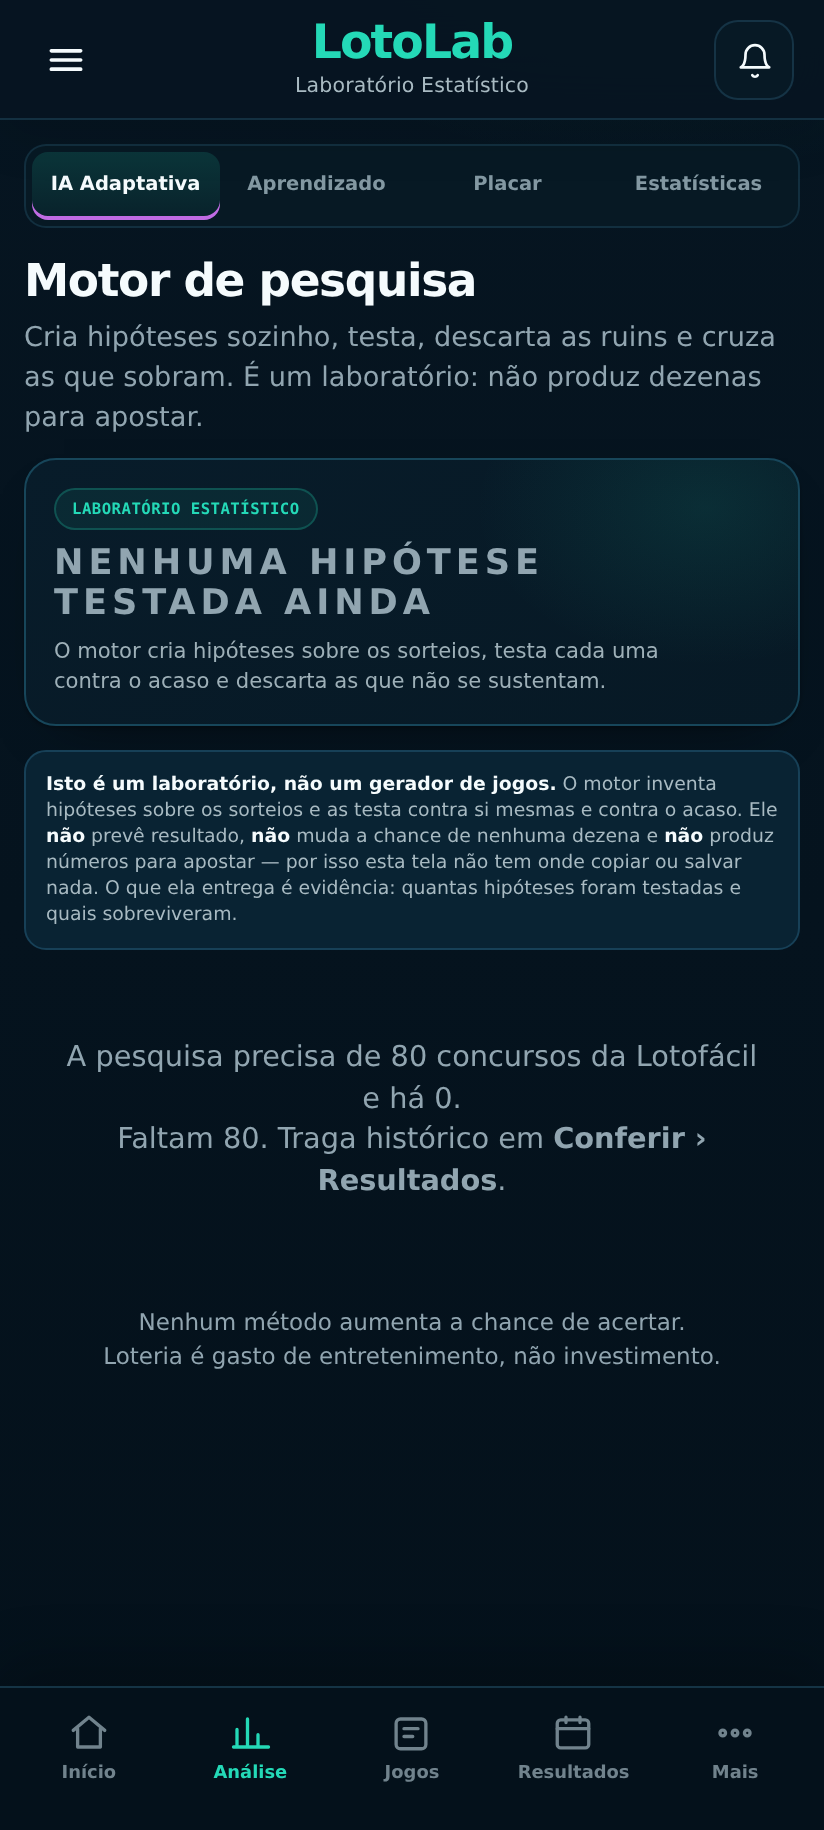
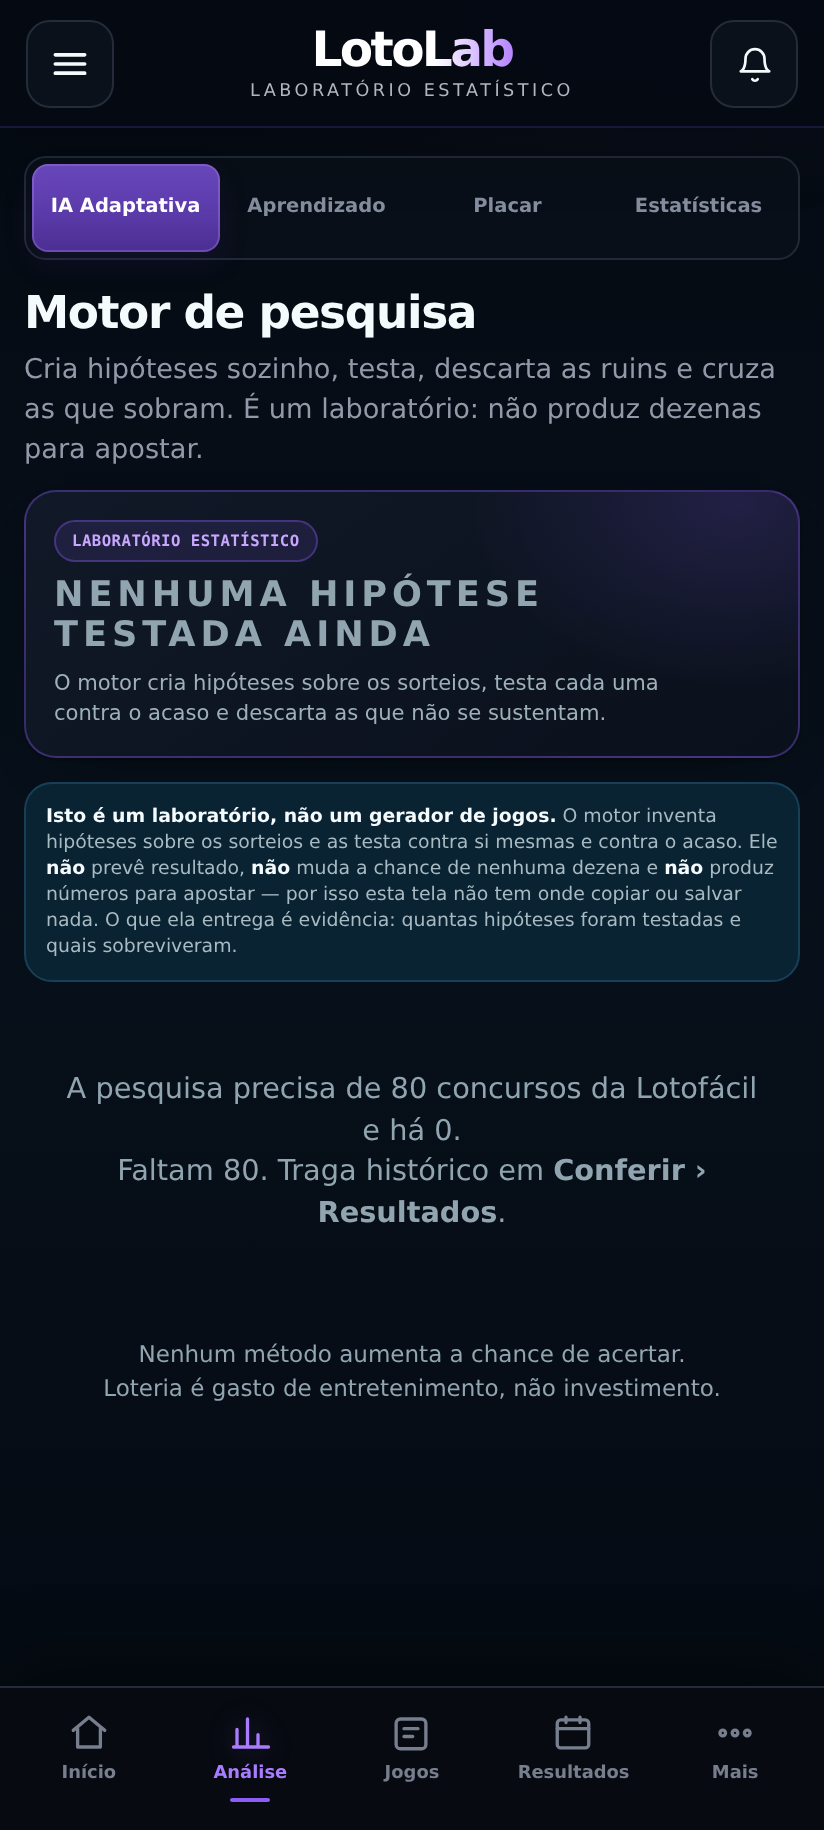
refino(v4.3): roxo global, foco visível, alvo de 44px e uma escala de raio
Quatro defeitos medidos na interface real, aos 360, 390 e 430px. Só folha de
estilo: nenhum arquivo de motor, dado ou fluxo foi tocado, e a referência
dourada de caracteristicas() continua idêntica.

1. O ROXO NÃO ERA A IDENTIDADE GLOBAL. `--ll-mod`, que pinta acentos por toda
   a interface, nascia teal (#24D9B7) e passava a valer a cor da modalidade
   escolhida — verde inteiro na Mega-Sena, lilás inteiro na Lotofácil. Era a
   regra da V4.2, quando a modalidade ERA a identidade. Agora o acento global é
   roxo em qualquer modalidade, e a cor da modalidade segue viva onde informa:
   indicador, dezenas dos resultados e estado selecionado. `--ll-chip` não foi
   tocado de propósito.

2. O FOCO DE TECLADO ERA INVISÍVEL. Botão focado devolvia `outline: none` e
   `box-shadow: none`. A bateria cobrava que o foco ALCANÇA os controles; não
   cobrava que ele APARECE. Anel roxo de 2px em :focus-visible — não :focus,
   para não piscar a cada toque no celular.

3. ALVO DE TOQUE ABAIXO DO DEDO. Entre 33 e 39px em abas de segmento, chips,
   ".acao mini" e ".acao-tela"; 40px nos ícones do cabeçalho. Todos em 44px
   agora. A coluna da grade do cabeçalho subiu junto, senão o botão
   transbordaria.

4. QUATRO RAIOS DE BORDA convivendo (11, 12, 15 e 17px) em elementos do mesmo
   peso. Agora uma escala: 14px para superfície, 10px para controle.

Duas correções precisaram de classe repetida: `.hero-card .primary-btn` e
[…]

diff --git a/ui/lotolab-ui-v4-3.css b/ui/lotolab-ui-v4-3.css
@@ -160,3 +160,109 @@ select:focus,input:focus{border-color:rgba(139,92,246,.72)!important;box-shadow:
   .bola,.ball{width:31px!important;height:31px!important}
 }
 @media(prefers-reduced-motion:reduce){*{scroll-behavior:auto!important}}
+
+/* ====================================================================
+   V4.3 — refino
+   Quatro defeitos medidos na interface real, aos 360, 390 e 430px.
+   Nada aqui toca motor, dados ou fluxo: é folha de estilo.
+   ==================================================================== */
+
+/* 1. O ROXO VOLTA A SER A IDENTIDADE GLOBAL.
+
+   Medido: `--ll-mod`, que pinta acentos por toda a interface, nascia teal
+   (#24D9B7) e passava a valer a cor da modalidade escolhida — verde inteiro na
+   Mega-Sena, lilás inteiro na Lotofácil. Era a regra da V4.2, quando a cor da
+   modalidade era a identidade.
+
+   Na V4.3 a identidade é o roxo, e a cor da modalidade é contexto. Então o
+   acento global passa a ser roxo em qualquer modalidade, e a cor da modalidade
+   segue viva onde ela informa: no indicador, nas dezenas dos resultados e no
+   estado selecionado. É por isso que `--ll-chip` NÃO é tocado aqui. */
+:root,
+body:has([data-mod][aria-pressed="true"]){
+  --ll-mod:var(--ll43-purple)!important;
+  --ll-mod-soft:var(--ll43-purple-soft)!important;
+  --ll-mod-border:rgba(139,92,246,.46)!important;
+  --ll-mod-text:#CDB4FF!important;
+}
+
+/* 2. FOCO DE TECLADO VISÍVEL.
+
+   Medido: botão com foco devolvia `outline: none 0px` e `box-shadow: none` —
+   quem navega por teclado não tinha como saber onde estava. A bateria já
+   cobrava que o foco ALCANÇA os controles; não cobrava que ele APARECE.
+
+   :focus-visible, e não :focus, para o anel não piscar a cada toque no celular. */
+:where(button,a[href],input,select,textarea,[tabindex]):focus-visible{
+  outline:2px solid var(--ll43-purple)!important;
+  outline-offset:2px!important;
+  border-radius:10px;
+}
+
+/* 3. ALVO DE TOQUE DE 44px.
+
+   Medido nas três larguras: abas de segmento 34px, chips 33px, ".acao mini"
+   37px, ".acao-tela" 38px. Todos abaixo do mínimo confortável para o dedo.
+
+   min-height em vez de height: o conteúdo manda quando for maior, e nada
+   encolhe. Onde o elemento é pequeno por desenho — o ícone do cabeçalho —, o
+   alvo cresce sem o desenho crescer. */
+/* Classe repetida de propósito. A camada anterior fixa
+   `.primary-btn,.hero-card .primary-btn{min-height:37px!important}`, e o botão
+   da tela inicial FICA dentro de .hero-card — ou seja, o seletor que vale ali
+   tem especificidade (0,2,0) e ganha do meu (0,1,0), mesmo eu vindo depois e
+   também com !important. Repetir a classe empata a especificidade e a ordem
+   decide, que é o comportamento que eu esperava desde o começo.
+
+   Medido antes de escrever: o computado continuava 37px com a regra simples. */
+.acao.acao,.chip.chip,.primary-btn.primary-btn,
+.segmento button,.abas-seg button,.filtros button{
+  min-height:44px!important;
+}
+.acao-tela.acao-tela{min-width:44px!important;min-height:44px!important}
+
+/* Os dois ícones do cabeçalho ficavam em 40px porque a coluna da grade tem
+   42px. Subir só o botão o faria transbordar a coluna, então sobem juntos.
+   A 360px isto deixa 272px para o título, que continua sobrando. */
+.cabeca{grid-template-columns:44px 1fr 44px!important}
+.menu.menu,.sino.sino{width:44px!important;height:44px!important}
+.chip{padding-top:0!important;padding-bottom:0!important;display:inline-flex!important;
+  align-items:center!important}
+
+/* 4. RAIO DE BORDA COM ESCALA ÚNICA.
+
+   Medido: 11, 12, 15 e 17px convivendo em elementos do mesmo peso visual.
+   Quatro valores para a mesma família é ruído que se vê sem saber nomear.
+
+   Duas medidas, e só: 14px para superfície (cartão, painel, nota, ficha) e
+   10px para controle (campo, chip, botão pequeno). */
+:root{--ll43-r-superficie:14px;--ll43-r-controle:10px}
+.carta,.panel,.painel,.nota,.ficha,.kpi,.card,.activity-item,.item,
+.draw-card,.concurso,
+/* .hero-card vinha com 17px e .mini-card com 12px — os dois últimos fora da
+   escala, medidos na tela inicial. São superfície como as outras. */
+.hero-card.hero-card,.mini-card.mini-card,
+/* `.resumo .kpi` (0,2,0) fixa 12px e ganharia de um `.kpi` solto. Só aparece
+   no Placar quando há jogo salvo — a varredura da tela vazia não o via, e foi
+   o teste novo, rodando depois das seções que criam dados, que o pegou. */
+.resumo .kpi{border-radius:var(--ll43-r-superficie)!important}
+select,input[type=number],input[type=text],input[type=date],.search,
+.acao.mini,.chip{border-radius:var(--ll43-r-controle)!important}
+
+/* 5. O ESTADO DO RESULTADO NÃO DEPENDE DE COR.
+
+   O selo já traz o texto ("com ganhador" / "sem ganhador — acumulou"), e é
+   isso que sustenta a leitura de quem não distingue verde de amarelo. Aqui a
+   cor só reforça, com os tons da V4.3, e o peso extra separa os dois estados
+   também pela forma. */
+.selo-ganho.ganhou{
+  color:var(--ll43-winner)!important;
+  border-color:color-mix(in srgb,var(--ll43-winner) 46%,transparent)!important;
+  background:color-mix(in srgb,var(--ll43-winner) 13%,transparent)!important;
+}
+.selo-ganho.acumulou{
+  color:var(--ll43-rollover)!important;
+  border-color:color-mix(in srgb,var(--ll43-rollover) 48%,transparent)!important;
+  background:color-mix(in srgb,var(--ll43-rollover) 14%,transparent)!important;
+}
+.selo-ganho.desconhecido{font-style:italic!important}

diff --git a/www/ui/lotolab-ui-v4-3.css b/www/ui/lotolab-ui-v4-3.css
@@ -160,3 +160,109 @@ select:focus,input:focus{border-color:rgba(139,92,246,.72)!important;box-shadow:
   .bola,.ball{width:31px!important;height:31px!important}
 }
 @media(prefers-reduced-motion:reduce){*{scroll-behavior:auto!important}}
+
+/* ====================================================================
+   V4.3 — refino
+   Quatro defeitos medidos na interface real, aos 360, 390 e 430px.
+   Nada aqui toca motor, dados ou fluxo: é folha de estilo.
+   ==================================================================== */
+
+/* 1. O ROXO VOLTA A SER A IDENTIDADE GLOBAL.
+
+   Medido: `--ll-mod`, que pinta acentos por toda a interface, nascia teal
+   (#24D9B7) e passava a valer a cor da modalidade escolhida — verde inteiro na
+   Mega-Sena, lilás inteiro na Lotofácil. Era a regra da V4.2, quando a cor da
+   modalidade era a identidade.
+
+   Na V4.3 a identidade é o roxo, e a cor da modalidade é contexto. Então o
+   acento global passa a ser roxo em qualquer modalidade, e a cor da modalidade
+   segue viva onde ela informa: no indicador, nas dezenas dos resultados e no
+   estado selecionado. É por isso que `--ll-chip` NÃO é tocado aqui. */
+:root,
+body:has([data-mod][aria-pressed="true"]){
+  --ll-mod:var(--ll43-purple)!important;
+  --ll-mod-soft:var(--ll43-purple-soft)!important;
+  --ll-mod-border:rgba(139,92,246,.46)!important;
+  --ll-mod-text:#CDB4FF!important;
+}
+
+/* 2. FOCO DE TECLADO VISÍVEL.
+
+   Medido: botão com foco devolvia `outline: none 0px` e `box-shadow: none` —
+   quem navega por teclado não tinha como saber onde estava. A bateria já
+   cobrava que o foco ALCANÇA os controles; não cobrava que ele APARECE.
+
+   :focus-visible, e não :focus, para o anel não piscar a cada toque no celular. */
+:where(button,a[href],input,select,textarea,[tabindex]):focus-visible{
+  outline:2px solid var(--ll43-purple)!important;
+  outline-offset:2px!important;
+  border-radius:10px;
+}
+
+/* 3. ALVO DE TOQUE DE 44px.
+
+   Medido nas três larguras: abas de segmento 34px, chips 33px, ".acao mini"
+   37px, ".acao-tela" 38px. Todos abaixo do mínimo confortável para o dedo.
+
+   min-height em vez de height: o conteúdo manda quando for maior, e nada
+   encolhe. Onde o elemento é pequeno por desenho — o ícone do cabeçalho —, o
+   alvo cresce sem o desenho crescer. */
+/* Classe repetida de propósito. A camada anterior fixa
+   `.primary-btn,.hero-card .primary-btn{min-height:37px!important}`, e o botão
+   da tela inicial FICA dentro de .hero-card — ou seja, o seletor que vale ali
+   tem especificidade (0,2,0) e ganha do meu (0,1,0), mesmo eu vindo depois e
+   também com !important. Repetir a classe empata a especificidade e a ordem
+   decide, que é o comportamento que eu esperava desde o começo.
+
+   Medido antes de escrever: o computado continuava 37px com a regra simples. */
+.acao.acao,.chip.chip,.primary-btn.primary-btn,
+.segmento button,.abas-seg button,.filtros button{
+  min-height:44px!important;
+}
+.acao-tela.acao-tela{min-width:44px!important;min-height:44px!important}
+
+/* Os dois ícones do cabeçalho ficavam em 40px porque a coluna da grade tem
+   42px. Subir só o botão o faria transbordar a coluna, então sobem juntos.
+   A 360px isto deixa 272px para o título, que continua sobrando. */
+.cabeca{grid-template-columns:44px 1fr 44px!important}
+.menu.menu,.sino.sino{width:44px!important;height:44px!important}
+.chip{padding-top:0!important;padding-bottom:0!important;display:inline-flex!important;
+  align-items:center!important}
+
+/* 4. RAIO DE BORDA COM ESCALA ÚNICA.
+
+   Medido: 11, 12, 15 e 17px convivendo em elementos do mesmo peso visual.
+   Quatro valores para a mesma família é ruído que se vê sem saber nomear.
+
+   Duas medidas, e só: 14px para superfície (cartão, painel, nota, ficha) e
+   10px para controle (campo, chip, botão pequeno). */
+:root{--ll43-r-superficie:14px;--ll43-r-controle:10px}
+.carta,.panel,.painel,.nota,.ficha,.kpi,.card,.activity-item,.item,
+.draw-card,.concurso,
+/* .hero-card vinha com 17px e .mini-card com 12px — os dois últimos fora da
+   escala, medidos na tela inicial. São superfície como as outras. */
+.hero-card.hero-card,.mini-card.mini-card,
+/* `.resumo .kpi` (0,2,0) fixa 12px e ganharia de um `.kpi` solto. Só aparece
+   no Placar quando há jogo salvo — a varredura da tela vazia não o via, e foi
+   o teste novo, rodando depois das seções que criam dados, que o pegou. */
+.resumo .kpi{border-radius:var(--ll43-r-superficie)!important}
+select,input[type=number],input[type=text],input[type=date],.search,
+.acao.mini,.chip{border-radius:var(--ll43-r-controle)!important}
+
+/* 5. O ESTADO DO RESULTADO NÃO DEPENDE DE COR.
+
+   O selo já traz o texto ("com ganhador" / "sem ganhador — acumulou"), e é
+   isso que sustenta a leitura de quem não distingue verde de amarelo. Aqui a
+   cor só reforça, com os tons da V4.3, e o peso extra separa os dois estados
+   também pela forma. */
+.selo-ganho.ganhou{
+  color:var(--ll43-winner)!important;
+  border-color:color-mix(in srgb,var(--ll43-winner) 46%,transparent)!important;
+  background:color-mix(in srgb,var(--ll43-winner) 13%,transparent)!important;
+}
+.selo-ganho.acumulou{
+  color:var(--ll43-rollover)!important;
+  border-color:color-mix(in srgb,var(--ll43-rollover) 48%,transparent)!important;
+  background:color-mix(in srgb,var(--ll43-rollover) 14%,transparent)!important;
+}
+.selo-ganho.desconhecido{font-style:italic!important}
